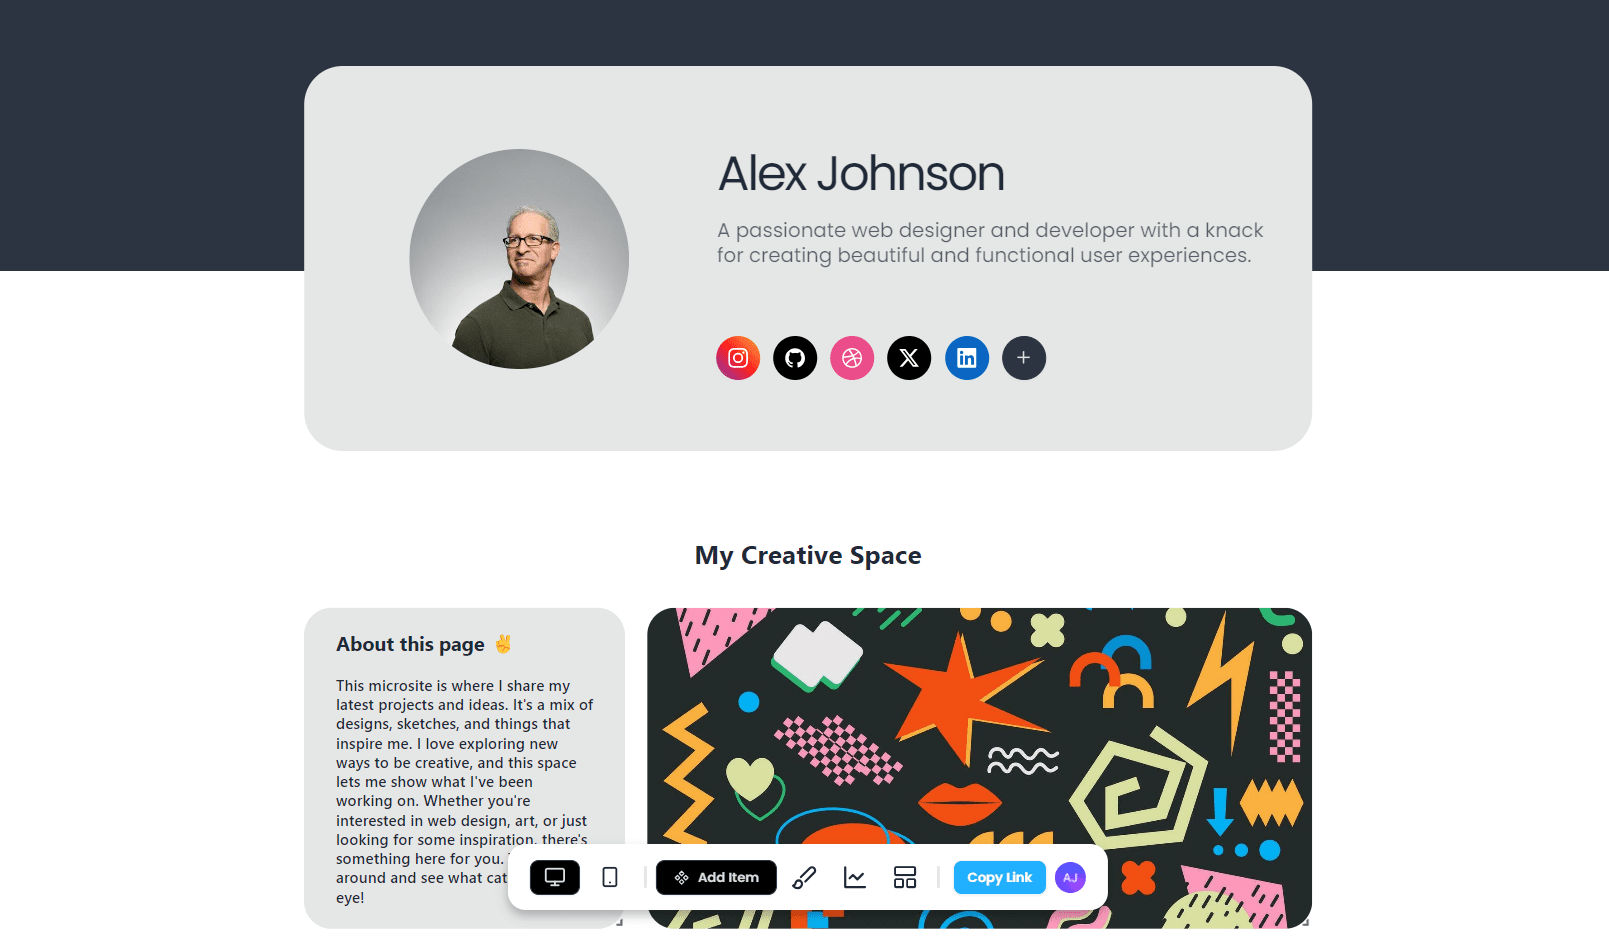
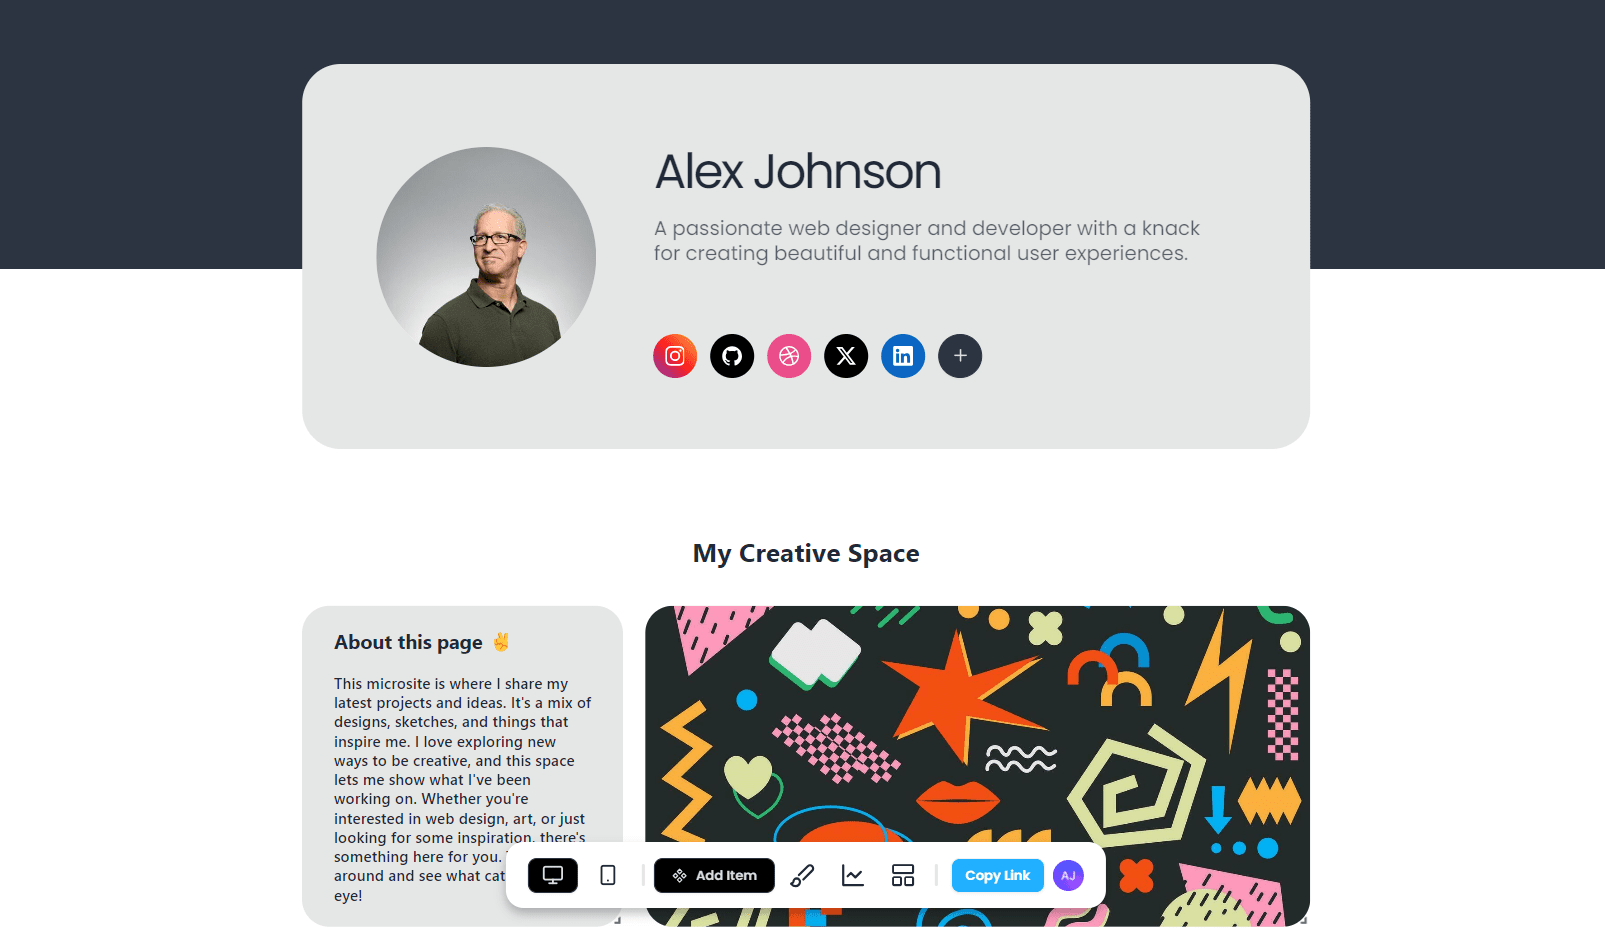
Adjust profile section

diff --git a/app/_components/Hero.jsx b/app/_components/Hero.jsx
@@ -31,7 +31,11 @@ const Hero = () => {
       <div className="w-full max-w-[1000px] aspect-[1.6/1] border border-black/10 rounded-[38px] flex items-center justify-center p-[10px]">
         <div className="w-full h-full rounded-[28px] border border-black/10 p-2 bg-black/5">
           <div className="w-full h-full rounded-[20px] border bg-white shadow-lg overflow-hidden">
-            <img src="./hero-demo.png" alt="" className="w-full, h-full object-cover" />
+            <img
+              src="./hero-demo.png"
+              alt="Demo Image"
+              className="w-full h-full object-cover"
+            />
           </div>
         </div>
       </div>

diff --git a/app/admin/_components/Profile.jsx b/app/admin/_components/Profile.jsx
@@ -187,7 +187,7 @@ const Profile = () => {
             />
           </div>
         </div>
-        <div className="flex flex-[3] flex-col justify-center">
+        <div className="flex flex-[4] flex-col justify-center">
           <input
             type="text"
             className={`input input-ghost rounded-lg p-0 text-[28px] bg-base-300 hover:bg-base-content/20 focus:outline-none font-normal font-poppins tracking-tighter max-w-[500px] ${

diff --git a/app/[username]/_components/Profile.jsx b/app/[username]/_components/Profile.jsx
@@ -29,7 +29,7 @@ const Profile = ({ name, bio, image, socialLinks }) => {
             )}
           </div>
         </div>
-        <div className="flex flex-[3] flex-col justify-center">
+        <div className="flex flex-[4] flex-col justify-center">
           <p
             className={`text-[28px] font-normal font-poppins tracking-tighter lg:text-2xl lg:py-2`}
           >
